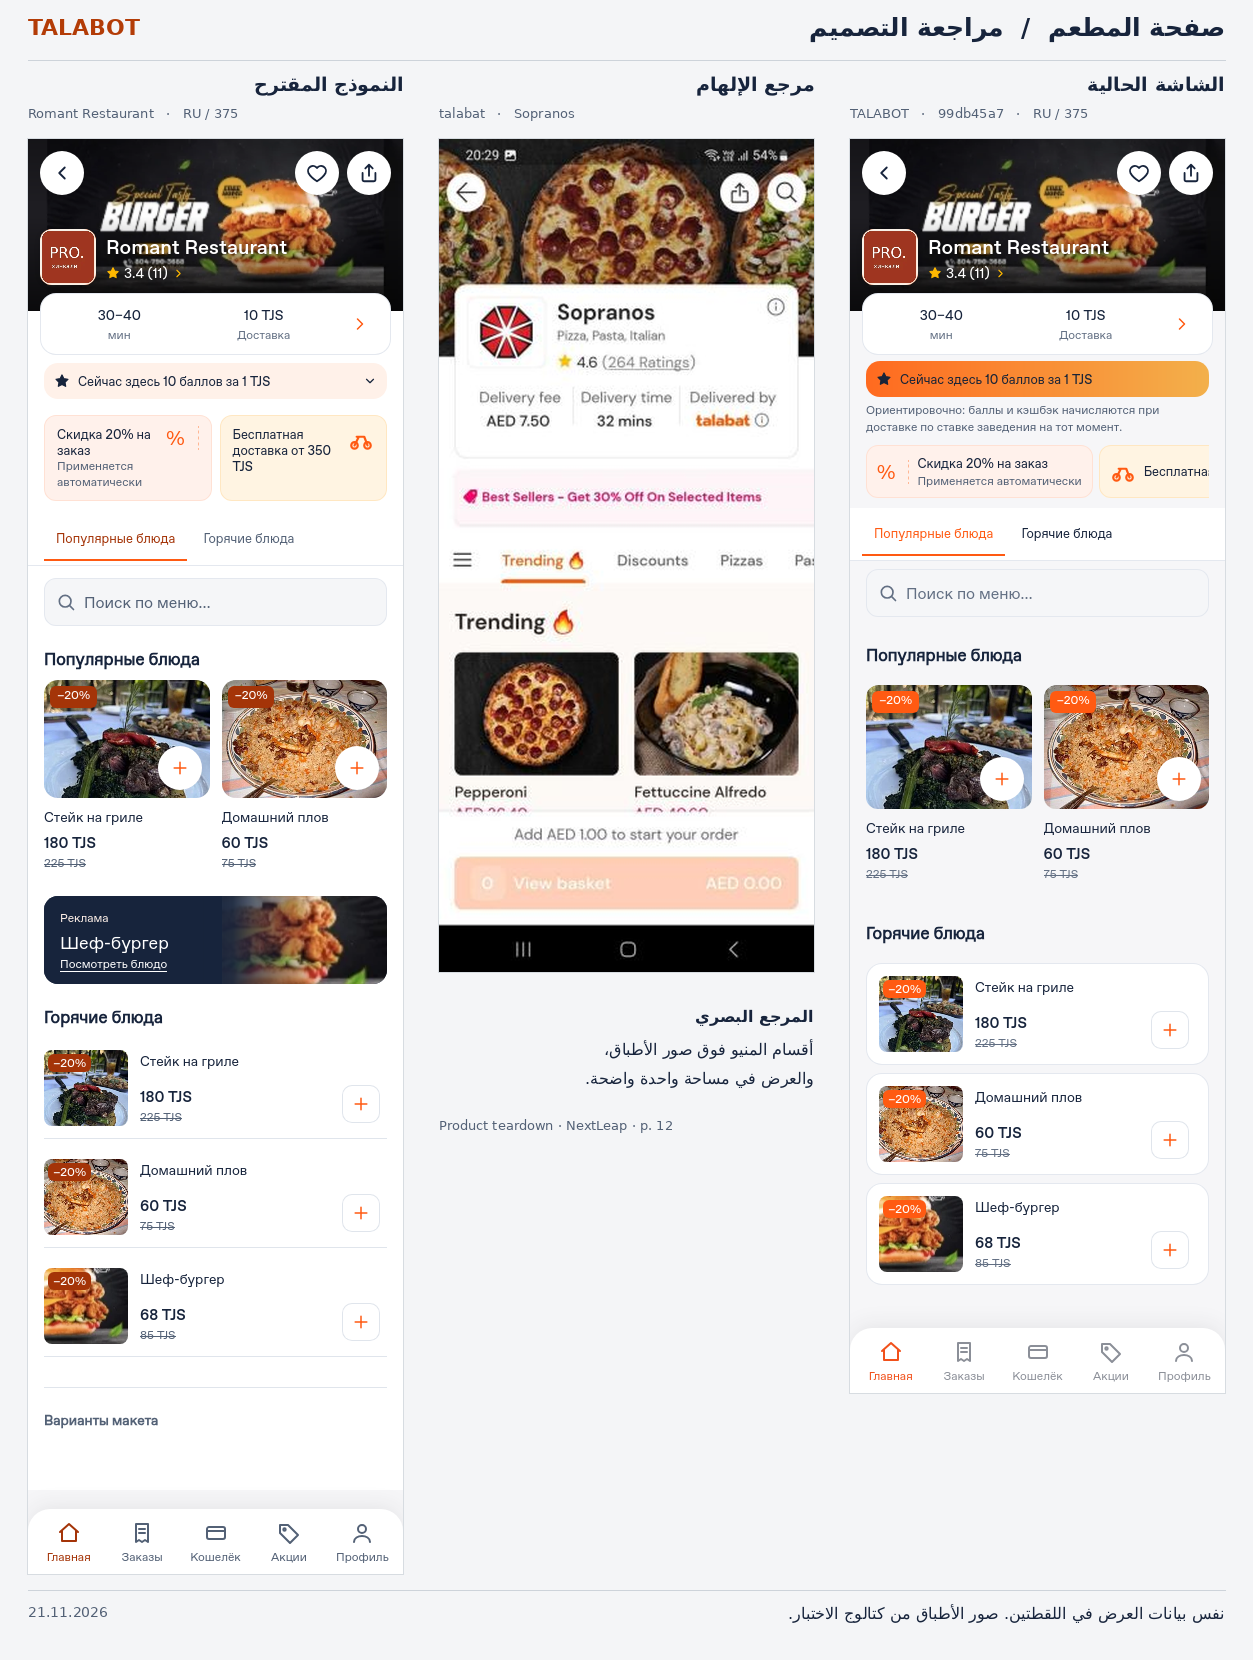
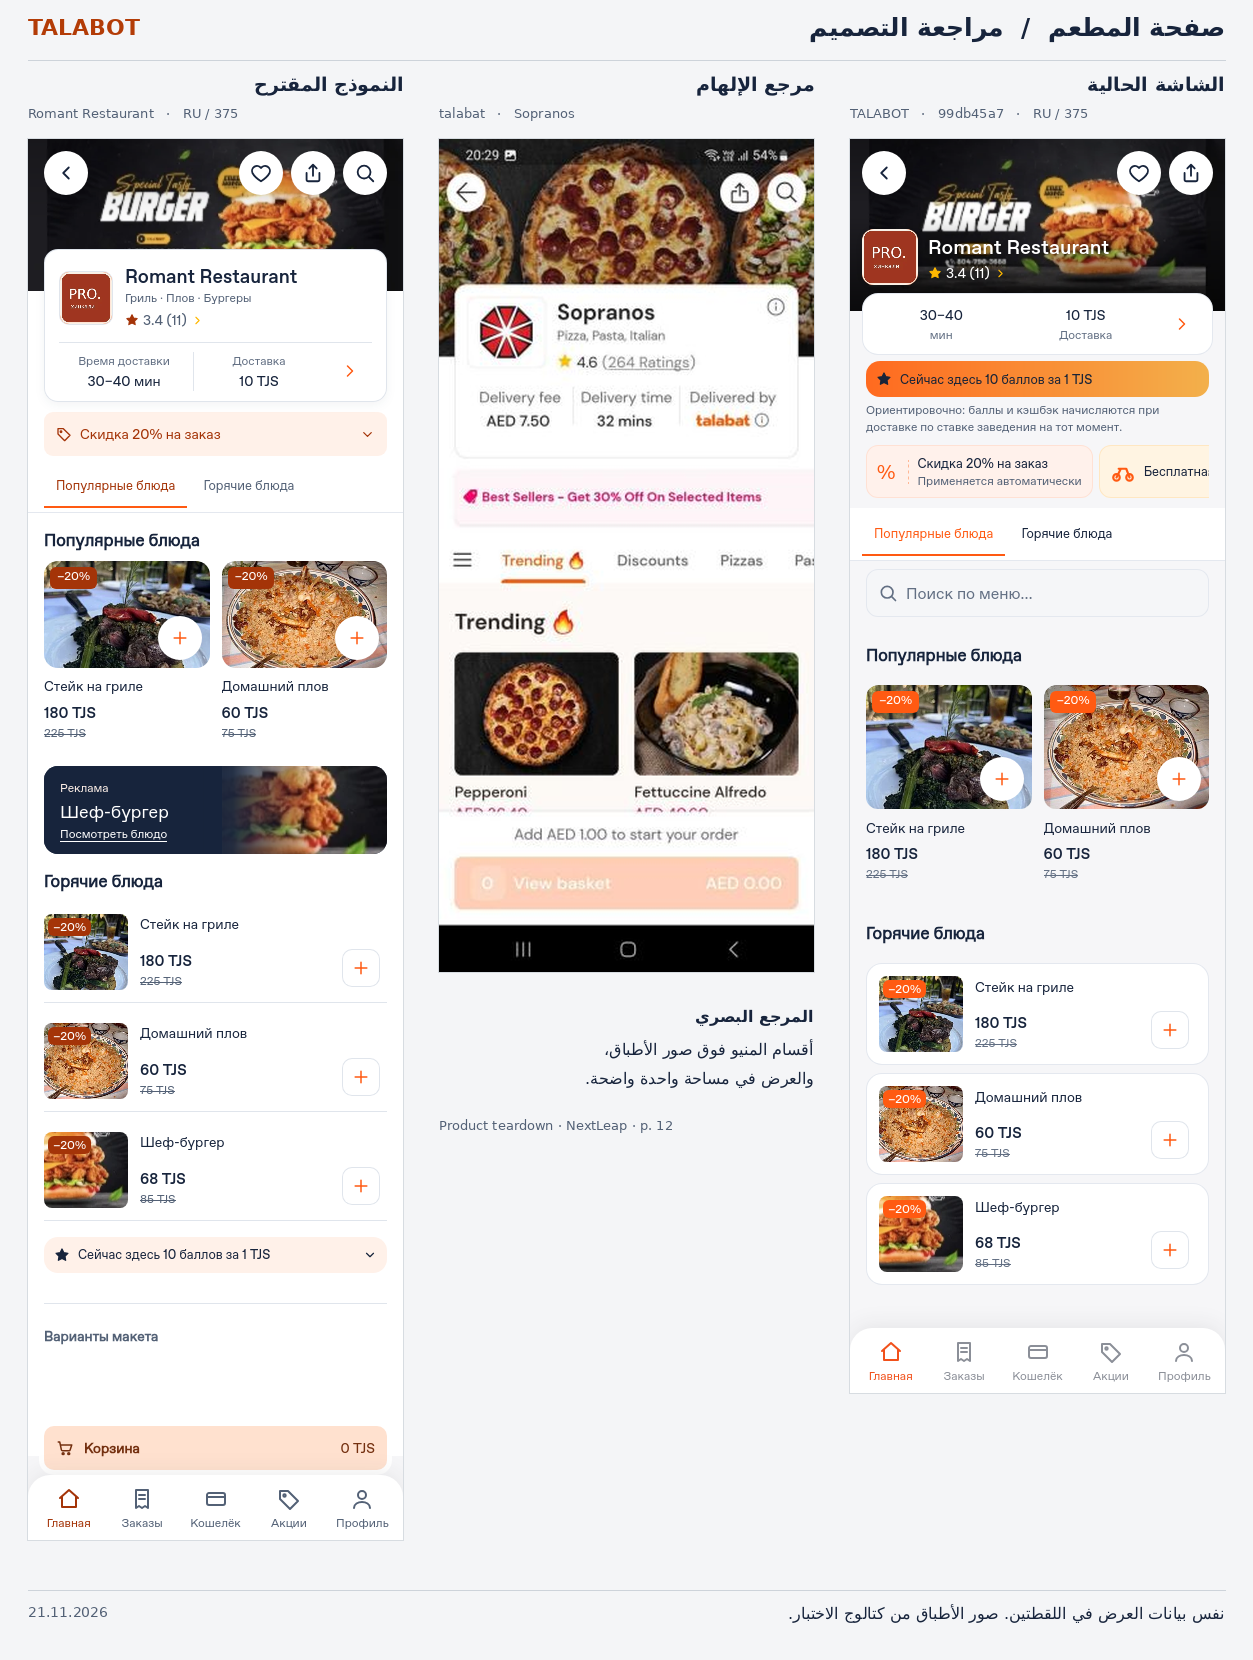
design: align restaurant menu composition with owner-selected reference [skip ci]

Changed region(s): [[0.0311, 0.0922, 0.3113, 0.9524], [0.2801, 0.7066, 0.3113, 0.7373], [0.2801, 0.6452, 0.3113, 0.6759]]

diff --git a/design-mockups/restaurant-page/index.html b/design-mockups/restaurant-page/index.html
@@ -2059,6 +2059,31 @@ body{font-size:var(--type-body);line-height:20px;font-weight:var(--weight-regula
 #app .d6m .d6-hd{min-height:0}
 #app:has(.d6m) .nav>div{color:#536176}
 #app:has(.d6m) .nav>div.on{color:#a43408}
+#app .d6m .d6-cover{height:152px;min-height:152px;padding:12px 16px;overflow:hidden}
+#app .d6m .d6-cover:after{background:linear-gradient(180deg,#0003,transparent 55%);z-index:0}
+#app .rp-identity{position:relative;z-index:2;margin:-42px 16px 0;padding:14px 14px 8px;background:white;border:1px solid #e0e5ec;border-radius:14px;box-shadow:0 3px 10px #17243c0d}
+#app .rp-identity .d6-id{align-items:center;gap:12px;margin:0;color:#17243c}
+#app .rp-identity .d6-id h1{color:#17243c;text-shadow:none;font-size:19px}
+#app .rp-identity .d6-logo{width:54px;height:54px;border-radius:10px;box-shadow:none;border:1px solid #e0e5ec}
+#app .rp-identity .d6-tag,#app .rp-identity .d6-rt{color:#536176;opacity:1;white-space:normal}
+#app .rp-identity .d6-rt svg:first-child{color:#a43408}
+#app .rp-identity .d6-stats{margin:10px 0 0;border:0;border-top:1px solid #e0e5ec;padding:6px 0 0;border-radius:0;box-shadow:none}
+#app .rp-identity .d6-stat{flex-direction:column-reverse;gap:1px}
+#app .rp-identity .d6-stat + .d6-stat{border-inline-start:1px solid #e0e5ec}
+#app .rp-offers{margin:10px 16px 4px;background:#fff1e9;color:#a43408;border-radius:9px}
+#app .rp-offers summary{min-height:44px;display:flex;align-items:center;gap:8px;padding:8px 12px;list-style:none;cursor:pointer}
+#app .rp-offers summary::-webkit-details-marker{display:none}
+#app .rp-offers summary svg:last-child{margin-left:auto}
+#app .rp-terms{padding:2px 12px 12px;color:#17243c;display:grid;gap:8px}
+#app .rp-terms span{display:block;color:#536176}
+#app .d6m .d69-menu-nav{margin-top:4px}
+#app .d6m .msec{margin-top:16px}
+#app .d6m .d69-grid .d6-ph{aspect-ratio:1.55}
+#app .d6m .d68-earn{margin-top:16px}
+#app .rp-empty-cart{display:flex;align-items:center;gap:10px;position:fixed;left:16px;right:16px;bottom:calc(70px + env(safe-area-inset-bottom,0px));z-index:42;height:44px;max-width:398px;margin:auto;width:calc(100% - 32px);border-radius:10px;padding:0 12px;background:#ffe1cf;color:#743010;opacity:1;cursor:default;box-shadow:0 0 0 5px white}
+#app .rp-empty-cart span{font-weight:600}
+#app .rp-empty-cart b{margin-left:auto}
+#app .rp-cart-space{height:50px}
 </style></head><body>
 <div id="app"></div>
 <script>window.onerror=function(m,s,l){if(window.__errShown)return;window.__errShown=1;var d=document.createElement('div');d.style.cssText='position:fixed;left:12px;right:12px;bottom:calc(14px + env(safe-area-inset-bottom,0px));z-index:99999;background:#1c1c21;color:#fff;font:600 13px -apple-system,sans-serif;padding:12px 14px;border-radius:14px;text-align:center;box-shadow:0 8px 24px #0005';d.innerHTML='Что-то пошло не так · Something went wrong<br><span style="font-weight:500;opacity:.8">Нажмите, чтобы обновить · Tap to reload</span>';d.onclick=function(){location.reload()};(document.body||document.documentElement).appendChild(d)};window.addEventListener('unhandledrejection',function(e){window.onerror('Promise','',0)})</script>
@@ -6000,6 +6025,10 @@ function rpControls(){
   const button=(title,active,action)=>'<button type="button" aria-pressed="'+active+'" onclick="'+action+'">'+title+'</button>';
   return '<details id="review" '+(rpReview?'open':'')+' ontoggle="rpReview=this.open"><summary>'+rpText('Варианты макета','Preview options')+'</summary><div class="choices">'+['ru','en'].map(l=>button(l.toUpperCase(),lang===l,"rpChoose('"+l+"','"+store+"')")).join('')+'</div><div class="choices">'+['Romant Restaurant','KFC'].map((n,i)=>button(n,S.store===n,"rpChoose('"+lang+"','"+(i?'kfc':'romant')+"')")).join('')+'</div><button disabled class="closed"><span><b>Café Atlas</b><small>'+rpText('Закрыто · Откроется в 09:00','Closed · Opens at 09:00')+' · 4.2 (9)</small></span></button><p class="choices"><label><input type="checkbox" '+(rpAdvertising?'checked':'')+' onchange="rpReview=true;rpAdvertising=this.checked;render()"> '+rpText('Показать пример рекламы','Show sample ad')+'</label></p></details>';
 }
+let rpOffers=false;
+function rpEmptyCart(){
+  return '<div class="rp-cart-space"><button class="rp-empty-cart" disabled>'+ico('cart',18)+'<span>'+rpText('Корзина','View basket')+'</span><b>0 TJS</b></button></div>';
+}
 
 function vMenu(){const M=TLB.allMenus(true)[S.store]||[],open=TLB.isOpen(S.store),st=TLB.stores().find(x=>x.name==S.store)||{},sd=storeOf(S.store),q=S.msq.trim().toLowerCase(),sdp=sd.disc||0;
   const fav=st.id&&TLB.isFav(st.id),eta=etaOf(sd),maxIt=M.reduce((m,i)=>Math.max(m,+i.discount||0),0);
@@ -6012,19 +6041,19 @@ function vMenu(){const M=TLB.allMenus(true)[S.store]||[],open=TLB.isOpen(S.store
   const sec=x=>`<section class="msec d6-sec ${x.kind=='h'?'d73-again':''}" id="${x.id}"><div class="d6-hd"><h2 class="d6-h2">${esc(x.kind=='g'?t('d6Pop'):x.title)}</h2></div>${x.kind=='l'?`<div class="d6-list">${x.items.map(i=>d6Row(i,sdp)).join('')}</div>`:`<div class="d6-rail ${x.kind=='g'||x.kind=='h'?'d69-grid':''}">${x.items.map(i=>d6Card(i,sdp)).join('')}</div>`}</section>`;
   const search=`<label class="d6-sb">${ico('search',20)}<input type="search" id="mq" placeholder="${t('searchMenu')}" value="${esc(S.msq)}" oninput="S.msq=this.value;render()" enterkeyhint="search" aria-label="${t('searchMenu')}"></label>`;
   const body=q?(()=>{const f=M.filter(i=>i.name.toLowerCase().includes(q));return search+(f.length?`<div class="d6-list" style="margin-top:12px">${f.map(i=>d6Row(i,sdp)).join('')}</div>`:`<div class="d6-empty">${emptyV(t('noItemsF'),t('emNoResS'),'','search')}</div>`)})()
-    :M.length?again.map(sec).join('')+search+rest.map((x,index)=>sec(x)+(index===0&&rest.length>1?rpAd(M):'')).join(''):`<div class="d6-empty">${emptyV(t('noMenu'),'','','receipt')}</div>`;
+    :M.length?again.map(sec).join('')+(S.msearch?search:'')+rest.map((x,index)=>sec(x)+(index===0&&rest.length>1?rpAd(M):'')).join(''):`<div class="d6-empty">${emptyV(t('noMenu'),'','','receipt')}</div>`;
   const n=S.cartStore==S.store?cartCount():0;
   return `<div class="d6 d6m ${open?'':'c01-closed-menu'}"><div class="d6-cover">${st.cover_url?`<img src="${esc(st.cover_url)}" alt="" onerror="this.remove()">`:''}
   <div class="d6-act"><button class="d6-circ" onclick="go('${S.back||'home'}')" aria-label="${t('back')}">${ico('back')}</button><span class="sp"></span>
-  <button class="d6-circ ${fav?'on':''}" aria-label="${t('favs')}" aria-pressed="${!!fav}" onclick="TLB.toggleFav('${st.id}')">${ico('heart',22,fav)}</button><button class="d6-circ" aria-label="${t('shareStore')}" onclick="shareStore()">${ico('share')}</button></div>
-  <div class="d6-id"><div class="d6-logo">${st.logo_url?`<img src="${esc(st.logo_url)}" alt="" onerror="this.remove()">`:esc(String(S.store||'?').charAt(0).toUpperCase())}</div><div style="min-width:0;flex:1"><h1>${esc(S.store)}</h1>${st.description?`<div class="d6-tag">${esc(st.description)}</div>`:''}
-  ${sd.rt>0?`<button class="d6-rt" onclick="S.sinfo=true;render()" aria-label="${t('d6Info')}">${ico('star',14,1)} ${sd.rt.toFixed(1)}${sd.rc?` (${cnt(sd.rc)})`:''} ${ico('chev',13)}</button>`:''}</div></div></div>
-  <div class="d6-stats">${stats.map(x=>`<div class="d6-stat"><b>${esc(x[0])}</b><span>${esc(x[1])}</span></div>`).join('')}<button class="d6-more" onclick="S.sinfo=true;render()" aria-label="${t('d6Info')}">${ico('chev')}</button></div>
+  <button class="d6-circ ${fav?'on':''}" aria-label="${t('favs')}" aria-pressed="${!!fav}" onclick="TLB.toggleFav('${st.id}')">${ico('heart',22,fav)}</button><button class="d6-circ" aria-label="${t('shareStore')}" onclick="shareStore()">${ico('share')}</button><button class="d6-circ" aria-label="${t('searchMenu')}" onclick="S.msearch=!S.msearch;render();if(S.msearch)document.getElementById('mq')?.focus()">${ico('search')}</button></div>
+  </div><div class="rp-identity"><div class="d6-id"><div class="d6-logo">${st.logo_url?`<img src="${esc(st.logo_url)}" alt="" onerror="this.remove()">`:esc(String(S.store||'?').charAt(0).toUpperCase())}</div><div style="min-width:0;flex:1"><h1>${esc(S.store)}</h1>${!st.description?`<div class="d6-tag">${S.store==='KFC'?rpText('Курица · Бургеры','Chicken · Burgers'):rpText('Гриль · Плов · Бургеры','Grill · Pilaf · Burgers')}</div>`:''}${st.description?`<div class="d6-tag">${esc(st.description)}</div>`:''}
+  ${sd.rt>0?`<button class="d6-rt" onclick="S.sinfo=true;render()" aria-label="${t('d6Info')}">${ico('star',14,1)} ${sd.rt.toFixed(1)}${sd.rc?` (${cnt(sd.rc)})`:''} ${ico('chev',13)}</button>`:''}</div></div>
+  <div class="d6-stats">${stats.map(x=>x[1]===t('minU')?[x[0]+' '+x[1],rpText('Время доставки','Delivery time')]:[x[0],rpText('Доставка','Delivery fee')]).map(x=>`<div class="d6-stat"><b>${esc(x[0])}</b><span>${esc(x[1])}</span></div>`).join('')}<button class="d6-more" onclick="S.sinfo=true;render()" aria-label="${t('d6Info')}">${ico('chev')}</button></div></div>
 
   ${open?'':`<div class="d6-note"><div class="closedb">${t('closedBanner')}</div></div>`}
-  ${rpReward(d6Earn())}
-  ${tiles.length?`<div class="d6-ofs">${tiles.map(o=>`<div class="d6-of ${o[0]}"><span class="ic">${o[1]}</span><div><b>${esc(o[2])}</b>${o[3]?`<span>${esc(o[3])}</span>`:''}</div></div>`).join('')}</div>`:''}
-  ${!q&&secs.length?`<nav class="d69-menu-nav" aria-label="${t('v69Sections')}">${secs.map(x=>`<a href="#${x.id}" onclick="event.preventDefault();document.getElementById('${x.id}').scrollIntoView({behavior:'smooth',block:'start'})">${esc(x.kind=='g'?t('d6Pop'):x.title)}</a>`).join('')}</nav>`:''}${body}${rpControls()}<div style="height:${n?96:12}px"></div>${S.sinfo?sinfoSheet(st,sd):''}</div>
+  
+  ${tiles.length?`<details class="rp-offers" ${rpOffers?'open':''} ontoggle="rpOffers=this.open"><summary>${ico('tag',16)} <b>${esc(tiles[0][2])}</b>${ico('down',15)}</summary><div class="rp-terms">${tiles.map(o=>`<div><b>${esc(o[2])}</b>${o[3]?`<span>${esc(o[3])}</span>`:''}</div>`).join('')}</div></details>`:''}
+  ${!q&&secs.length?`<nav class="d69-menu-nav" aria-label="${t('v69Sections')}">${secs.map(x=>`<a href="#${x.id}" onclick="event.preventDefault();document.getElementById('${x.id}').scrollIntoView({behavior:'smooth',block:'start'})">${esc(x.kind=='g'?t('d6Pop'):x.title)}</a>`).join('')}</nav>`:''}${body}${rpReward(d6Earn())}${rpControls()}${!cartCount()&&!S.sh?rpEmptyCart():''}<div style="height:${n?96:12}px"></div>${S.sinfo?sinfoSheet(st,sd):''}</div>
   ${itemSheet()}`}
 /* «Подробнее о ресторане»: the store's existing data only */
 function sinfoSheet(st,sd){const m=mapH(sd);
